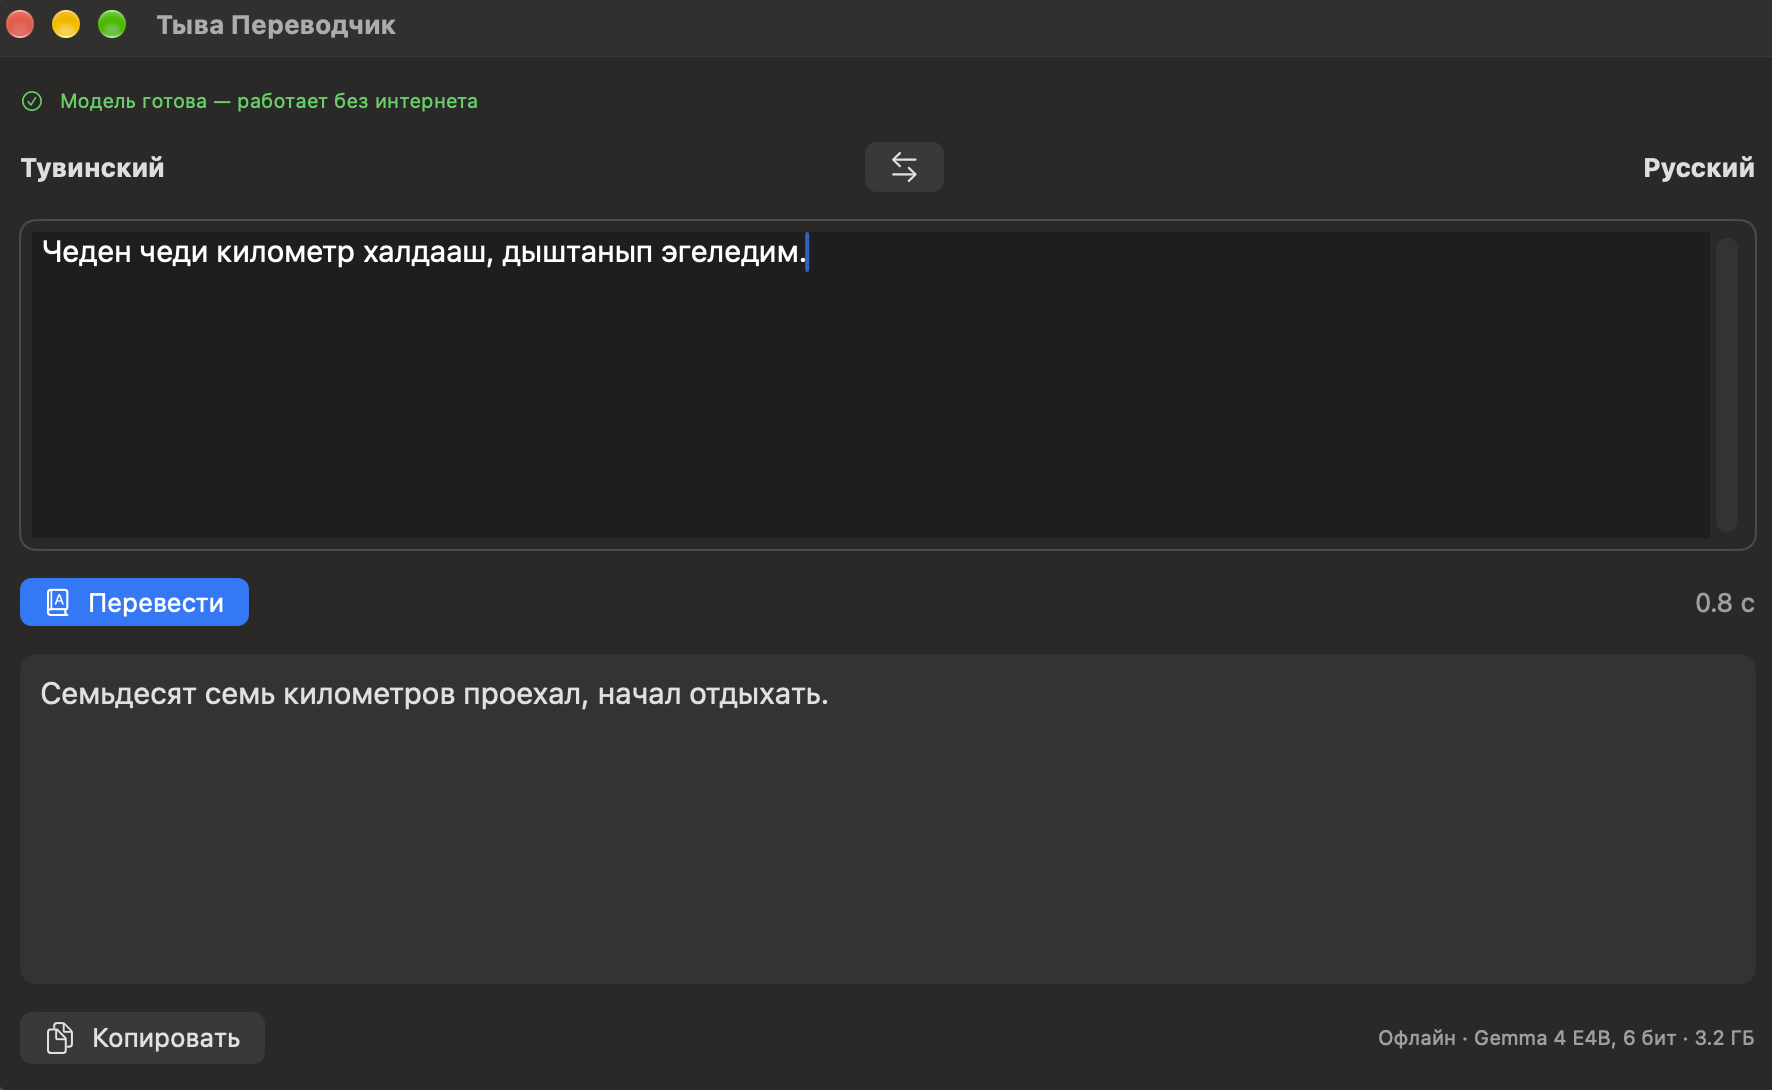
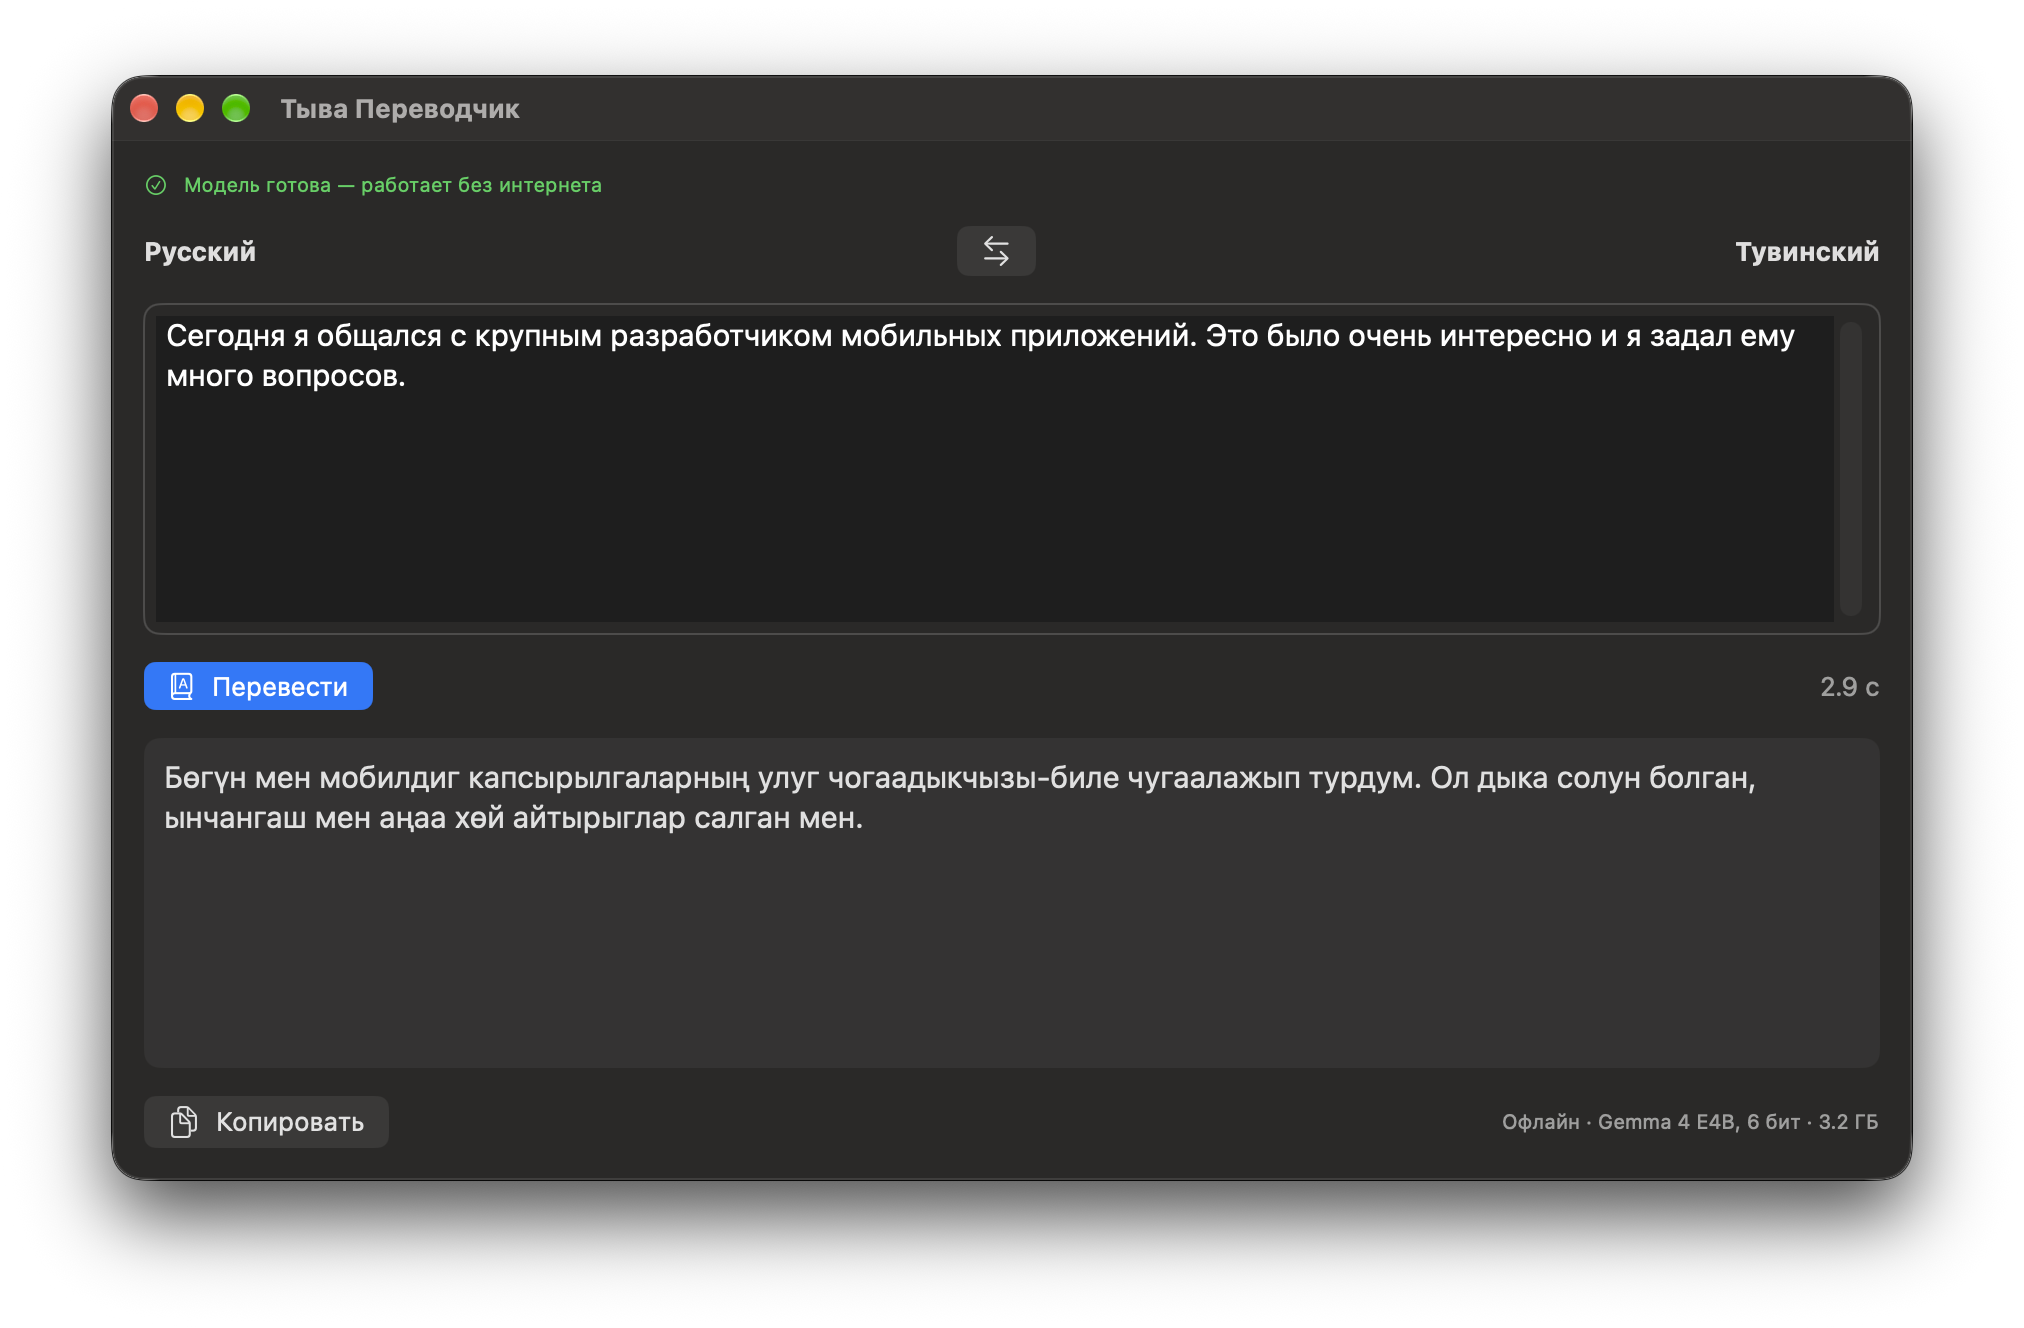
README: screenshots in both directions

diff --git a/README.md b/README.md
@@ -81,7 +81,7 @@ mlx_lm.generate --model Agisight/tyv-gemma4-e4b-pruned-mlx-6bit \
 ## App for Mac, iPad and iPhone
 
 <p>
-  <img src="app/screenshot.png" alt="Tyva Translator on a Mac: Tuvan to Russian, 0.8 s" width="49%">
+  <img src="app/screenshot.png" alt="Tyva Translator on a Mac: two Russian sentences translated into Tuvan, 2.9 s" width="49%">
   <img src="app/screenshot2.png" alt="Tyva Translator on a Mac: «Аштай бердим» → «Я проголодался», 0.7 s" width="49%">
 </p>
 
